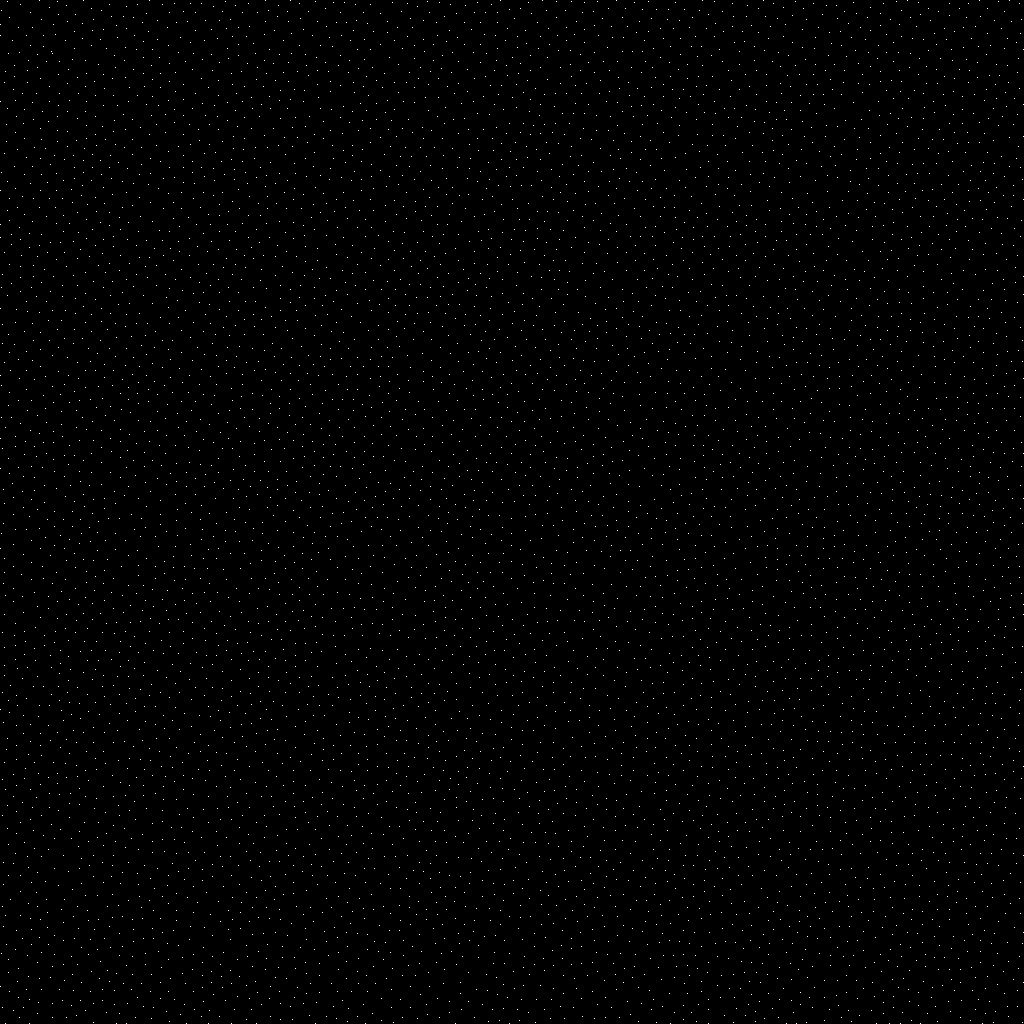
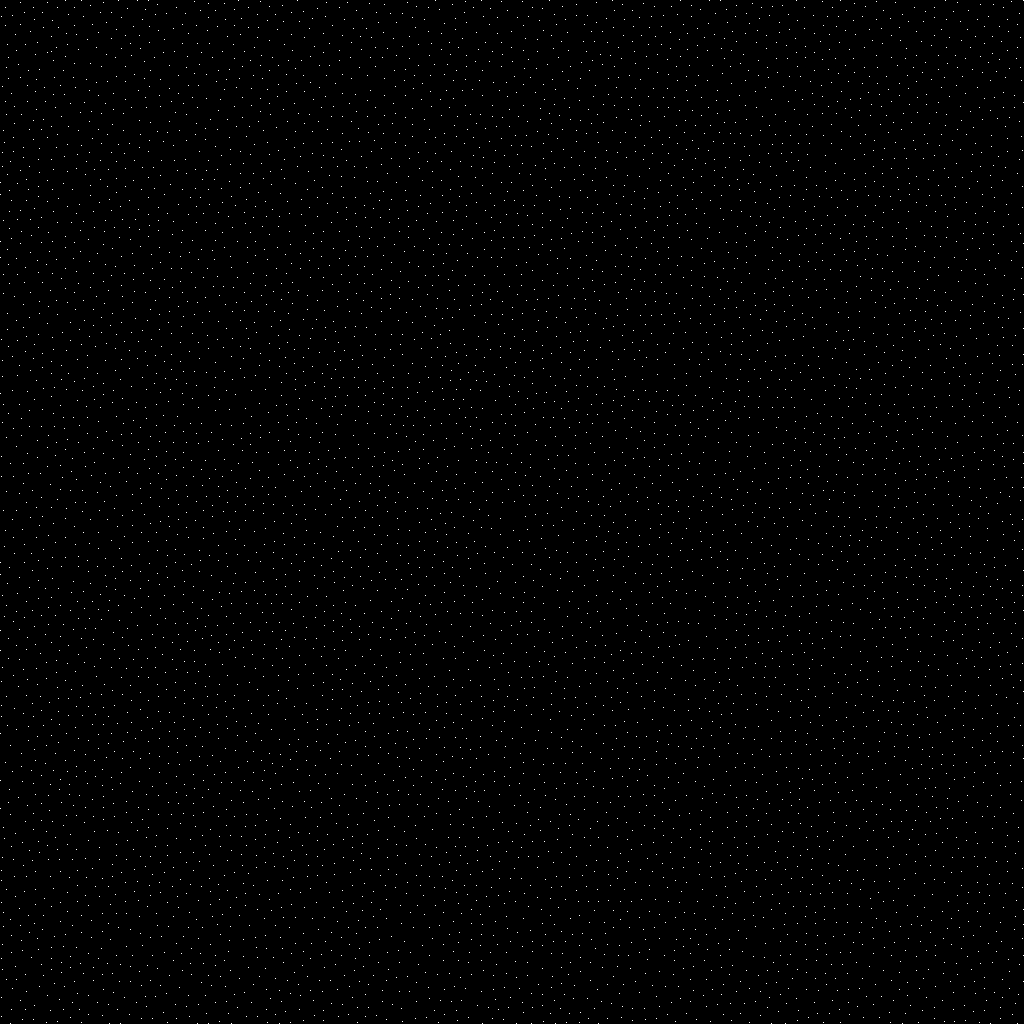
fix disk sampler bug

diff --git a/tests/noise/tests.swift b/tests/noise/tests.swift
@@ -2,6 +2,24 @@ import Noise
 
 import MaxPNG
 
+func write_rgb_png(path:String, width:Int, height:Int, pixbuf:[UInt8])
+{
+    guard let properties = PNGProperties(width: width, height: height, bit_depth: 8, color: .rgb, interlaced: false)
+    else
+    {
+        fatalError("failed to set png properties")
+    }
+
+    do
+    {
+        try png_encode(path: path, raw_data: pixbuf, properties: properties)
+    }
+    catch
+    {
+        print(error)
+    }
+}
+
 func color_noise_png(r_noise:Noise, g_noise:Noise, b_noise:Noise,
     width:Int, height:Int, value_offset:Double, invert:Bool = false, path:String)
 {
@@ -25,20 +43,7 @@ func color_noise_png(r_noise:Noise, g_noise:Noise, b_noise:Noise,
         }
     }
 
-    guard let properties = PNGProperties(width: width, height: height, bit_depth: 8, color: .rgb, interlaced: false)
-    else
-    {
-        fatalError("failed to set png properties")
-    }
-
-    do
-    {
-        try png_encode(path: path, raw_data: pixbuf, properties: properties)
-    }
-    catch
-    {
-        print(error)
-    }
+    write_rgb_png(path: path, width: width, height: height, pixbuf: pixbuf)
 }
 
 func banner_simplex2d(width:Int, height:Int, seed:Int)
@@ -98,6 +103,47 @@ func banner_cell3d(width:Int, height:Int, seed:Int)
                     path: "tests/banner_cell3d.png")
 }
 
+func circle_at(cx:Double, cy:Double, r:Double, width:Int, height:Int, _ f:(Int, Int, Double) -> ())
+{
+    // get bounding box
+    let x1:Int = max(0         , Int(cx - r)),
+        x2:Int = min(width - 1 , Int((cx + r).rounded(.up))),
+        y1:Int = max(0         , Int(cy - r)),
+        y2:Int = min(height - 1, Int((cy + r).rounded(.up)))
+
+    for y in y1 ... y2
+    {
+        let dy:Double = Double(y) - cy
+        for x in x1 ... x2
+        {
+            let dx:Double = Double(x) - cx,
+                dr:Double = (dx*dx + dy*dy).squareRoot()
+
+            f(x, y, min(1, max(0, 1 - dr + r - 0.5)))
+        }
+    }
+}
+
+func banner_disk2d(width:Int, height:Int, seed:Int)
+{
+    var poisson        = DiskSampler2D(seed: seed)
+    var pixbuf:[UInt8] = [UInt8](repeating: 255, count: 3 * width * height)
+
+    let points = poisson.generate(radius: 20, width: width, height: height, k: 80)
+    for point:(x:Double, y:Double) in points
+    {
+        circle_at(cx: point.x, cy: point.y, r: 5, width: width, height: height,
+        {
+            (x:Int, y:Int, v:Double) in
+
+            let base_addr:Int = 3 * (y * width + x)
+            pixbuf[base_addr + 1] = pixbuf[base_addr + 1] &- UInt8(255 * v)
+        })
+    }
+
+    write_rgb_png(path: "tests/banner_disk2d.png", width: width, height: height, pixbuf: pixbuf)
+}
+
 public
 func banners(width:Int, ratio:Double)
 {
@@ -107,4 +153,6 @@ func banners(width:Int, ratio:Double)
     banner_supersimplex3d(width: width, height: height, seed: 0)
     banner_cell2d(width: width, height: height, seed: 0)
     banner_cell3d(width: width, height: height, seed: 0)
+
+    banner_disk2d(width: width, height: height, seed: 0)
 }

diff --git a/tests/LinuxMain.swift b/tests/LinuxMain.swift
@@ -10,7 +10,7 @@ import NoiseTests
 
 banners(width: 700, ratio: 5)
 
-
+/*
 var pixbuf:[UInt8]
 let png_properties:PNGProperties = PNGProperties(width: viewer_size, height: viewer_size, bit_depth: 8, color: .grayscale, interlaced: false)!
 
@@ -112,3 +112,4 @@ t0 = clock()
 pixbuf = SS3D.sample_area_saturated_to_u8(width: viewer_size, height: viewer_size, offset: 127.5)
 print(clock() - t0)
 try png_encode(path: "super_simplex3D.png", raw_data: pixbuf, properties: png_properties)
+*/

diff --git a/sources/noise/disk.swift b/sources/noise/disk.swift
@@ -66,7 +66,8 @@ struct DiskSampler2D
             queue = [(0.5 * normalized_width, 0.5 * normalized_height)]
         }
 
-        var points:[(Double, Double)] = queue
+        _ = DiskSampler2D.attempt_insert(candidate: queue[0], into_grid: &grid, grid_stride: grid_stride)
+        var points:[(Double, Double)] = [(queue[0].x * radius, queue[0].y * radius)]
         outer: while let front:Math.DoubleV2 = queue.last
         {
             for _ in 0 ..< k
